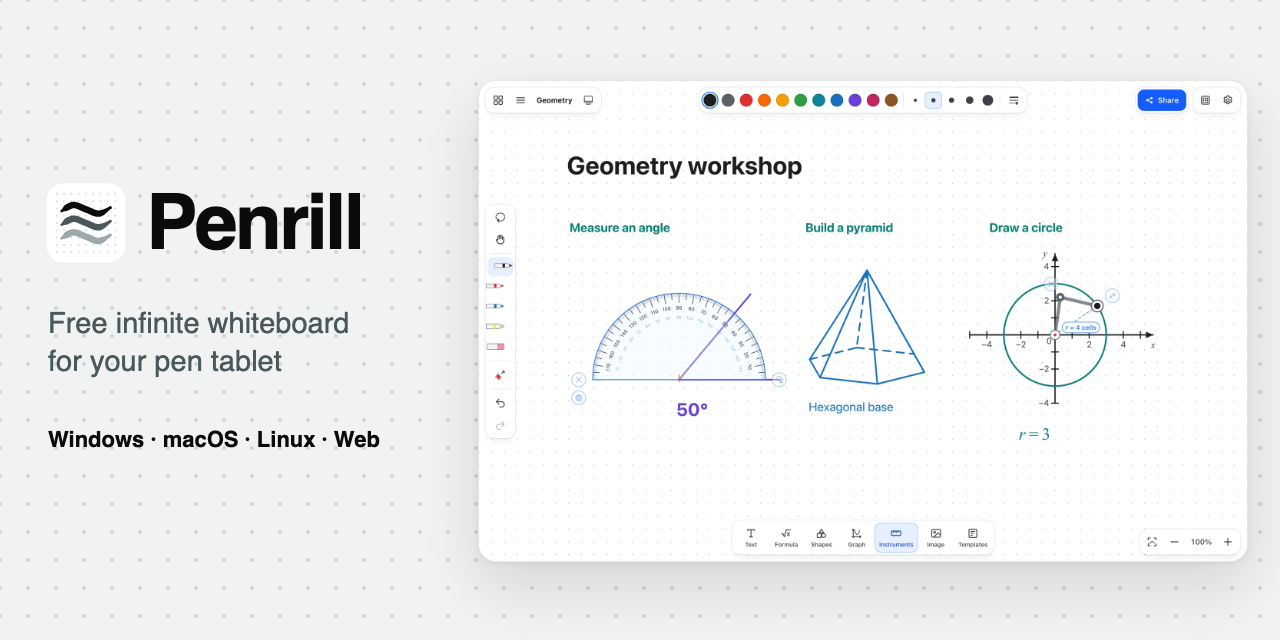
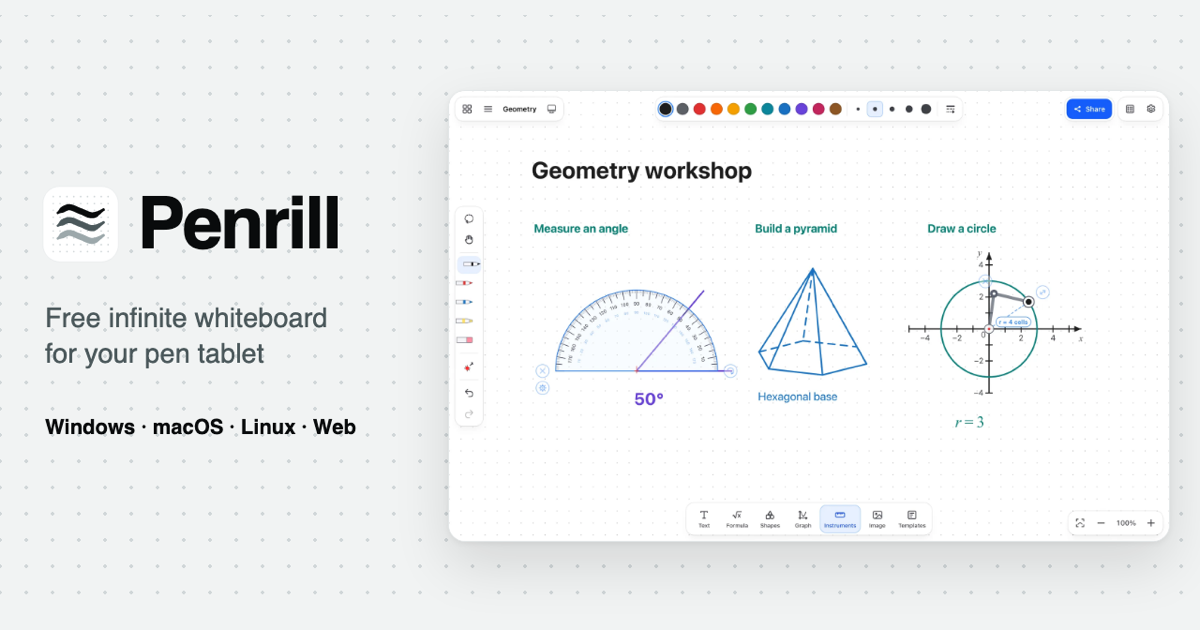
Expose Penrill downloads through WebMCP and update site metadata

diff --git a/src/Site.tsx b/src/Site.tsx
@@ -360,10 +360,10 @@ export function Site({ lang }: { lang: SiteLanguage }) {
                 features={platform.steps.map((step) => <span key={step} className={richText} dangerouslySetInnerHTML={rich(step)} />)}
                 cta={
                   <div className="flex flex-col items-start gap-4">
-                    <Download href={file?.browser_download_url ?? RELEASES} size="lg">{t(platform.get)}</Download>
+                    <Download data-penrill-package={platform.file} href={file?.browser_download_url ?? RELEASES} size="lg">{t(platform.get)}</Download>
                     {platform.os === 'linux' && (
                       <div className="flex flex-col gap-1 text-sm/6 text-mist-700 dark:text-mist-400">
-                        <a href={assets.deb?.browser_download_url ?? RELEASES} className="inline-flex items-center gap-2 font-medium text-mist-950 dark:text-white">
+                        <a data-penrill-package="deb" href={assets.deb?.browser_download_url ?? RELEASES} className="inline-flex items-center gap-2 font-medium text-mist-950 dark:text-white">
                           {t('d.get.deb')} <ChevronIcon />
                         </a>
                         <a href="https://snapcraft.io/inkboard" className="inline-flex items-center gap-2">

diff --git a/src/webmcp.ts b/src/webmcp.ts
@@ -1,0 +1,25 @@
+import { WEB_APP } from './siteData'
+
+const downloadTool = {
+  name: 'get_penrill_downloads',
+  description: 'List the Penrill web app and download links for Windows (exe), macOS (dmg), and Linux (AppImage and deb). Desktop links lead to the latest release page when an installer is unavailable.',
+  inputSchema: { type: 'object', properties: {}, additionalProperties: false },
+  annotations: { readOnlyHint: true },
+  async execute() {
+    const packages = Array.from(document.querySelectorAll<HTMLAnchorElement>('a[data-penrill-package]'), link => ({
+      format: link.dataset.penrillPackage,
+      url: link.href
+    }))
+    return { content: [{ type: 'text', text: JSON.stringify({ web: WEB_APP, packages }) }] }
+  }
+}
+
+interface WebMcpHost {
+  modelContext?: { registerTool(tool: typeof downloadTool): void | Promise<void> }
+}
+
+export async function registerDownloadTool() {
+  // Early WebMCP implementations exposed modelContext on navigator.
+  const context = (document as WebMcpHost).modelContext ?? (navigator as WebMcpHost).modelContext
+  await context?.registerTool?.(downloadTool)
+}

diff --git a/index.html b/index.html
@@ -5,13 +5,14 @@
 <meta name="viewport" content="width=device-width, initial-scale=1">
 <!-- Title, description, links to the other language, structured data and the language redirect come from src/server.tsx. -->
 <!--ssr-head-->
-<meta property="og:image:width" content="1280">
-<meta property="og:image:height" content="640">
+<meta property="og:image:width" content="1200">
+<meta property="og:image:height" content="630">
 <meta property="og:site_name" content="Penrill">
 <meta property="og:type" content="website">
 <meta name="twitter:card" content="summary_large_image">
 <meta name="theme-color" content="#f1f3f3" media="(prefers-color-scheme: light)">
 <meta name="theme-color" content="#090b0c" media="(prefers-color-scheme: dark)">
+<link rel="describedby" href="%BASE_URL%llms.txt">
 <link rel="icon" type="image/png" href="%BASE_URL%img/icon.png">
 <link rel="apple-touch-icon" href="%BASE_URL%img/apple-touch-icon.png">
 </head>

diff --git a/src/main.tsx b/src/main.tsx
@@ -3,14 +3,17 @@ import { createRoot, hydrateRoot } from 'react-dom/client'
 import { PrivacyPage } from './PrivacyPage'
 import { Site } from './Site'
 import { languageOfPath, pageOfPath } from './siteData'
+import { registerDownloadTool } from './webmcp'
 import './styles.css'
 
 const lang = languageOfPath(location.pathname)
 document.documentElement.lang = lang
 const root = document.getElementById('root')!
+const page = pageOfPath(location.pathname)
+if (page === 'home') void registerDownloadTool().catch(console.warn)
 const app = (
   <StrictMode>
-    {pageOfPath(location.pathname) === 'privacy' ? <PrivacyPage lang={lang} /> : <Site lang={lang} />}
+    {page === 'privacy' ? <PrivacyPage lang={lang} /> : <Site lang={lang} />}
   </StrictMode>
 )
 
